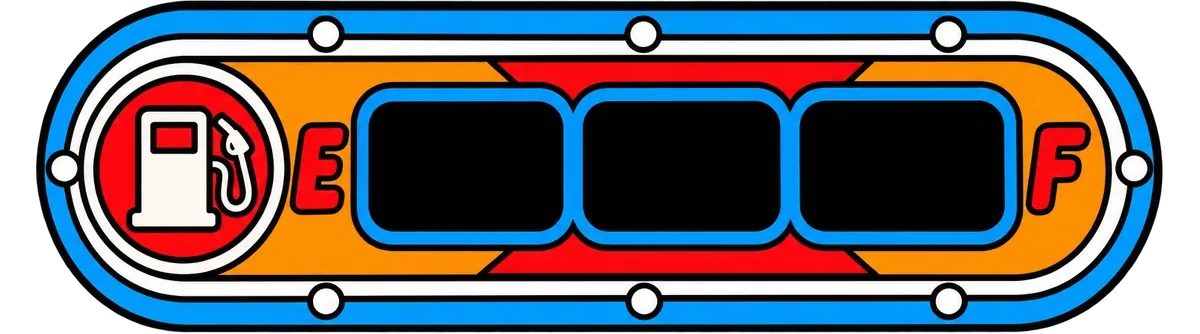
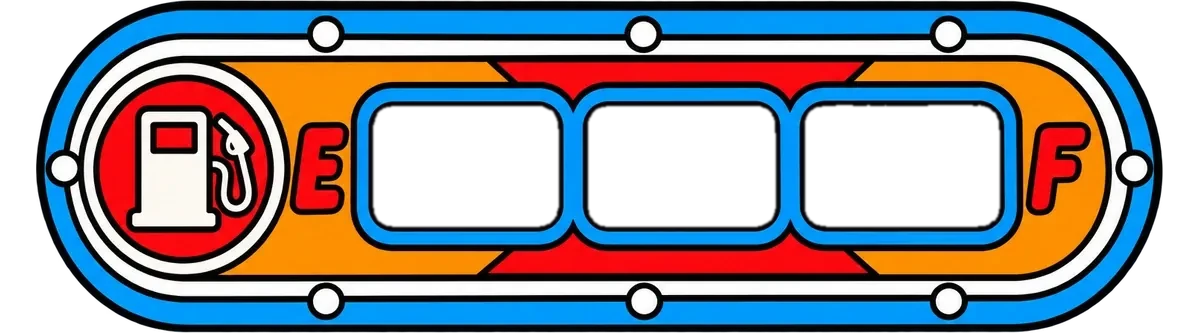
Falcos: fuel gauge shows spins left, slower bonuses, approval fixes
- FILL UP's gauge windows cut open so the fuel shows one lit window per spin left, with a SPINS LEFT count
  (tools/falcos/gauge_windows.py); intro, rules and menu say spins, not bars
- Every bonus plays at 1.7x the time (BONUS_PACE); Rapid and Skip still hurry it
- Approval self-check fixes: an open round's bet is restored on launch [187]; BTC shows 6 decimals and no bare "0."
  or rounded-up balance [219][273]; social mode says GET BONUS and raw errors go through the social wording [77];
  autoplay's confirm shows the real price a round with a special spin on [104]; rules state no re-triggers [29] and
  name every control by its icon, with Spin locked mid-round [235]; the replay panel fits 400x225 [243]

Changed region(s): [[0.3083, 0.2994, 0.8325, 0.6886]]

diff --git a/frontend/index.html b/frontend/index.html
@@ -1060,6 +1060,15 @@
   body.replay .betbox, body.replay #bonusBtn, body.replay #autoBtn, body.replay #spinBtn { display: none; }
   .replaymeta { font-family: var(--legible); font-size: 13px; color: var(--ink); margin: 0 0 10px; line-height: 1.6; }
   .replayres { font-family: var(--mono); font-size: 17px; letter-spacing: .08em; color: var(--gold); margin: 0 0 16px; line-height: 1.7; }
+  /* a popout S window (400x225): the replay panel's text shrinks and its Play / Play again button stays in view at
+     the panel's foot instead of scrolling out of it (approval [243]) */
+  @media (max-height: 300px) {
+    #replayWrap .infopanel { padding: 8px 14px 10px; max-height: calc(100vh - 12px); display: flex; flex-direction: column; }
+    #replayWrap .infopanel h3 { font-size: 15px; margin: 0 0 4px; }
+    #replayWrap .replaymeta, #replayWrap .fine { font-size: 10px !important; line-height: 1.35 !important; margin: 0 0 4px !important; }
+    #replayWrap .replayres { font-size: 12px; line-height: 1.35; margin: 0 0 6px; }
+    #replayWrap #replayPlay { position: sticky; bottom: 0; margin-top: auto; flex: none; padding: 6px 18px; font-size: 13px; }
+  }
   .infopanel h3 {
     margin: 0 0 12px; font-family: var(--disp); font-size: 22px; letter-spacing: .06em;
     text-transform: uppercase; color: var(--spray);
@@ -2213,6 +2222,7 @@
     background: url("assets/bonus_btn_text.webp") center/contain no-repeat;
     filter: drop-shadow(0 3px 5px rgba(0,0,0,.45));
   }
+  html.social .bonusbtn::after { background-image: url("assets/bonus_btn_text_social.webp"); }   /* GET BONUS: no BUY on Stake.US */
   /* The whole button drifts as one piece - the plate, the lettering and the neon glow together
      (owner, 2026-11-03: the lettering used to float on its own off a plate and a glow that stood
      still) - and only a little, slowly. The pointer lifts the whole of it a touch, too. */
@@ -2817,10 +2827,17 @@
   #fsCard.fill .fuelrow { display: flex; align-items: center; justify-content: center; gap: 22px; }
   .fgauge { position: relative; height: 104px; aspect-ratio: 1200 / 334; flex: none; }
   .fgauge > img { position: absolute; inset: 0; width: 100%; height: 100%; z-index: 2; pointer-events: none; }
-  /* its three glass windows (measured on the art: 28.9-46.5%, 48.75-66.4%, 68.75-86.4% across, 28.7-69.8% down) */
-  .fgauge > i { position: absolute; z-index: 1; top: 28.7%; height: 41.1%; width: 17.6%; border-radius: 12% / 18%; overflow: hidden;
-    background: linear-gradient(180deg, #1a0d06, #2a1408); }
-  .fgauge > i:nth-of-type(1) { left: 28.9%; } .fgauge > i:nth-of-type(2) { left: 48.75%; } .fgauge > i:nth-of-type(3) { left: 68.75%; }
+  /* its three glass windows, one per spin left (owner, 2026-11-16: "make these like how many spins you have"): cut
+     open in the flat art (tools/falcos/gauge_windows.py, which measured them: 30.75 / 48.67 / 66.75% across, 30.5-69.2%
+     down) - each box a touch bigger than its opening so its edge sits under the art's ink */
+  .fgauge > i { position: absolute; z-index: 1; top: 29.6%; height: 40.6%; width: 17.6%; border-radius: 14% / 20%; overflow: hidden;
+    background: linear-gradient(180deg, #120a06, #24140a); }
+  .fgauge > i:nth-of-type(1) { left: 30.1%; } .fgauge > i:nth-of-type(2) { left: 48%; } .fgauge > i:nth-of-type(3) { left: 66.2%; }
+  /* the spins-left count over the gauge: the label and its figure, the free spins counter's paint */
+  .fspins { display: flex; flex-direction: column; align-items: center; gap: 2px; flex: none; }
+  .fspins .fslbl b { display: inline-block; min-width: 1.1em; margin-left: .35em; font-size: 1.5em; line-height: 1; color: #FFD23C;
+    -webkit-text-stroke: .09em #0c0c12; paint-order: stroke fill; vertical-align: -.12em; }
+  .fspins .fslbl b.tick { animation: fmultpop .38s cubic-bezier(.2, .9, .3, 1.3); }
   /* the fuel in a window: a block of amber that fills from the bottom (scaleY) with a sloshing surface */
   .fgauge > i::before { content: ""; position: absolute; left: -10%; right: -10%; bottom: 0; height: 100%; transform-origin: 50% 100%; transform: scaleY(0);
     background: linear-gradient(180deg, #FFF0B0 0, #FFC24A 18%, #FF9A1A 60%, #C25A00); border-radius: 30% 30% 0 0 / 8% 8% 0 0;
@@ -2843,13 +2860,15 @@
      whole fit-to-screen (ResizeObserver) on every frame of it (perf, 2026-11-10) - the figure overflows instead */
   .ftotal { display: flex; flex-direction: column; align-items: flex-start; gap: 4px; width: 330px; height: 92px; flex: none; }
   .ftotal .fuelnum { justify-content: flex-start; }
-  .ftotal .fslbl { font-size: 15px; color: #FFB547; text-shadow: 0 0 10px rgba(255, 150, 40, .7); }
+  .ftotal .fslbl, .fspins .fslbl { font-size: 15px; color: #FFB547; text-shadow: 0 0 10px rgba(255, 150, 40, .7); }
+  .fspins .fslbl { font-size: 20px; }
   .fuelnum { min-height: 64px; }
   .fuelnum img { height: 64px; }
   .fuelnum .sym { font-size: 44px; -webkit-text-stroke-width: 5px; }
   @media (max-width: 760px) and (orientation: portrait) {
     .fgauge { height: 180px; }
-    .ftotal .fslbl { font-size: 28px; -webkit-text-stroke-width: 6px; }
+    .ftotal .fslbl, .fspins .fslbl { font-size: 28px; -webkit-text-stroke-width: 6px; }
+    .fspins .fslbl { font-size: 34px; }
     .fuelnum { min-height: 110px; } .fuelnum img { height: 110px; } .fuelnum .sym { font-size: 76px; -webkit-text-stroke-width: 8px; }
     /* an upright phone: the gauge and the total above the board (the room is there, under the canopy) */
     body.fillmode .rail { order: -1; }
@@ -3057,7 +3076,7 @@
   </div>
 
   <div class="rail">
-    <div class="fsline" id="fsCard"><div class="fsplate"><div class="fscount"><span class="fslbl">Free spins</span><b id="fsNow">—</b></div><div class="fswinbox"><span class="fslbl">Bonus win</span><div class="fswin" id="fsWin" aria-label="Bonus win"></div></div></div><div class="fuelrow"><div class="fgauge" id="fuelGauge" aria-label="Fuel"><i></i><i></i><i></i><img src="assets/fillup/gauge.webp" alt="" draggable="false"></div><div class="ftotal"><span class="fslbl">Fuel total</span><div class="fswin fuelnum" id="fuelNum" aria-label="Fuel total"></div></div></div></div>
+    <div class="fsline" id="fsCard"><div class="fsplate"><div class="fscount"><span class="fslbl">Free spins</span><b id="fsNow">—</b></div><div class="fswinbox"><span class="fslbl">Bonus win</span><div class="fswin" id="fsWin" aria-label="Bonus win"></div></div></div><div class="fuelrow"><div class="fspins"><span class="fslbl">Spins left<b id="fuelSpins">3</b></span><div class="fgauge" id="fuelGauge" aria-label="Spins left"><i></i><i></i><i></i><img src="assets/fillup/gauge.webp" alt="" draggable="false"></div></div><div class="ftotal"><span class="fslbl">Fuel total</span><div class="fswin fuelnum" id="fuelNum" aria-label="Fuel total"></div></div></div></div>
   </div>
 </div>
 
@@ -3281,6 +3300,7 @@ const modeOpen = (mode, b = bet()) => { const mx = RGS.modeMaxBet(mode); return 
 // Social casinos (Stake.us) forbid a list of gambling terms. Every player-facing string
 // goes through T(): a no-op normally, the sweeps vocabulary when the lobby says social=true.
 const SOCIAL = RGS.social;
+if (SOCIAL) document.documentElement.classList.add("social");
 const T = s => RULES.T(s, SOCIAL);
 // the symbols' short names reach the board as alt text and the ticker: they follow the rule too
 if (SOCIAL) for (const d of Object.values(SYM)) { d.label = T(d.label); d.sub = T(d.sub); }
@@ -3295,7 +3315,11 @@ const cents = c => Math.round(c / 100 * bet());
 // reels themselves (spinReel lands them the moment it is pressed): a spin that then hits
 // nothing is over at once, a spin that hits plays its hits at pace.
 const TEMPO_FAST = .3;   // was .4: a losing Rapid spin with a drop took 2.5-4.3 s (approval audit 2026-11-09 wants ~2 s)
-const tempo = () => (state.skip || $("turbo").checked) ? TEMPO_FAST : 1;
+// A bonus plays slower than the base game (owner, 2026-11-16: "slow the game down so much the bonus is way to fast"):
+// every hold, wait and CSS animation of FILL UP, PREMIUM and MIDNIGHT RUN runs at BONUS_PACE (Rapid and Skip still
+// hurry it, at their own pace). The symbols' own Blender clips keep their speed, as always (rigPlay).
+const BONUS_PACE = 1.7;
+const tempo = () => (state.skip || $("turbo").checked) ? TEMPO_FAST : state.bonus ? BONUS_PACE : 1;
 // The Multi's whole show - the can spraying its value on, the blow-out and its neighbours' pops,
 // the value landing - plays this many times faster than it was first timed (owner, 2026-10-22:
 // "speed the pop up time for the multiplier up by 1.5x"). The CSS reads it as --multi-rate.
@@ -6022,6 +6046,9 @@ function gaugeShow(fuel, reason) {
     if (!was && on && reason !== "start") { b.style.setProperty("--gd", (i * 90) + "ms"); b.classList.add("fill"); }
   });
   $("fsCard").classList.toggle("low", fuel <= 1);
+  const n = $("fuelSpins");
+  if (n && n.textContent !== String(fuel)) { n.textContent = String(fuel); n.classList.remove("tick"); restyle(n); n.classList.add("tick"); }
+  $("fuelGauge").setAttribute("aria-label", `${fuel} spin${fuel === 1 ? "" : "s"} left`);
 }
 const DROP_COLOUR = { FDG: "#6CFC54", FDA: "#FFB547", FDR: "#FF2A3D", ST: "#F5C518", GT: "#F5C518", GP: "#FFB547", ZP: "#FF6A1F" };
 // a drop lands on the FILL UP board: a ring and droplets in its colour splash out of it, the tile glows once
@@ -6552,6 +6579,7 @@ const handlers = {
     await bonusIntro(state.fsTotal || 10, kind === "midnight", kind, () => {
       // under the intro's black: the bonus's board and scene
       state.bonus = kind;
+      syncTempo();
       state.grid = emptyGrid(); state.max = new Set();
       clearFx(); paintGrid();
       if (kind === "fillup") fillBegin();
@@ -6585,11 +6613,11 @@ const handlers = {
     gaugeShow(ev.fuel, ev.reason);
     if (ev.reason === "use") {
       sfx("gaugeTick");
-      tick(`<b>FILL UP</b> — ${ev.fuel} bar${ev.fuel === 1 ? "" : "s"} left`);
+      tick(`<b>FILL UP</b> — ${ev.fuel} spin${ev.fuel === 1 ? "" : "s"} left`);
       await hold(ev.fuel >= 2 ? 420 : ev.fuel === 1 ? 560 : 360);
     } else if (ev.reason === "refill") {
       sfx("gaugeRefill");
-      tick(`<b>REFILLED</b> — 3 bars`);
+      tick(`<b>REFILLED</b> — 3 spins`);
       const g = $("fuelGauge");
       if (g && !REDUCED_MOTION) { g.classList.remove("refilled"); restyle(g); g.classList.add("refilled"); }
       await hold(state.fuelWasLow ? 900 : 620);   // saved on the last bars: a longer breath
@@ -6807,6 +6835,7 @@ const handlers = {
 function bonusOver() {
   fillEnd();
   state.bonus = null;
+  syncTempo();
   state.grid = emptyGrid(); state.max = new Set();
   paintGrid();
   if (Scene.now !== "normal" && state.mode !== "nitro") Scene.to("normal");
@@ -7138,7 +7167,7 @@ async function presentRound(round, { settle = true } = {}) {
 const BUYS = [
   { mode: "chance", wide: true, art: "chance", logo: "logo_chance", title: "FUEL CHANCE", desc: "Every spin with about 2.2x the chance of triggering a bonus. Stays on until you turn it off", btn: "Activate", acc: "#FFB547" },
   { mode: "nitro", wide: true, art: "nitro", logo: "logo_nitro", title: "NITRO SPIN", desc: "Every cell preloaded from x16 to x2048 on each spin. Stays on until you turn it off", btn: "Activate", acc: "#5B8CFF" },
-  { mode: "fillup", art: "fillup", logo: "logo_fillup", title: "FILL UP", desc: "Collect sticky Fuel Drops while the 3-bar gauge keeps refilling", btn: "Play", acc: "#FF7A1A" },
+  { mode: "fillup", art: "fillup", logo: "logo_fillup", title: "FILL UP", desc: "Collect sticky Fuel Drops - 3 spins, back to 3 whenever something lands", btn: "Play", acc: "#FF7A1A" },
   { mode: "premium", art: "premium", logo: "logo_premium_zombie", title: "PREMIUM", desc: "Zombie night: 10 free spins with sticky multipliers", btn: "Play", acc: "#4F9BFF" },
   { mode: "midnight", art: "midnight", logo: "logo_midnight", title: "MIDNIGHT RUN", desc: "10 free spins with every cell starting at x4, sticky multipliers", btn: "Play", acc: "#8A6BFF" },
 ];
@@ -7317,7 +7346,7 @@ async function playRound(mode) {
     await presentRound(d.round);
   } catch (err) {
     ok = false;
-    notice(`<b>${RGS_MESSAGE[err.code] || err.message || T("Round failed")}</b>`, true, 5000);
+    notice(`<b>${RGS_MESSAGE[err.code] || T(err.message || "Round failed")}</b>`, true, 5000);
     try { await RGS.balance(); setBalance(RGS.state.balance); } catch (e) { /* offline */ }
   }
 
@@ -7339,7 +7368,9 @@ function confirmAuto() {
   return new Promise(resolve => {
     const pop = $("autoPop"), opts = $("autoOpts");
     let n = Number(opts.querySelector(".on").dataset.n);
-    $("autoBet").textContent = fmt(bet());   // what each round will cost
+    // what each round will really cost: with FUEL CHANCE or NITRO SPIN on, that spin's price (approval [104])
+    const m = spinMode();
+    $("autoBet").textContent = fmt(bet() * (MODE_COST[m] || 1)) + (m !== "base" ? " " + T("a round") + " (" + T(MODE_NAMES[m]) + ")" : "");
     $("autoText").firstChild.textContent = T("Rounds at ");
     closeBars();   // the picker opens over the bar: the volume bars go with it
     openPop("autoPop");
@@ -8552,7 +8583,7 @@ introDone.then(() => setTimeout(releaseGonePics, 1500));   // its plates are gon
 const BONUS_KINDS = {
   fillup: { name: "FILL UP", logo: "assets/menu/logo_fillup.webp", x: false, noSpins: true,
     how: [`<b>Fuel Drops</b> stick where they land - green, amber and red, worth up to <b>x500</b> each - and change colour as they grow.`,
-          `The gauge starts full at <b>3</b> bars. Every spin uses one; anything new landing refills it. The bonus ends when the gauge runs dry.`,
+          `You start with <b>3</b> spins - the gauge shows how many are left. Every spin uses one; anything new landing sets it back to 3. The bonus ends when no spins are left.`,
           `Lighters burn drops, Scratch Tickets collect their neighbours, Gold Tickets collect the whole board and double it, Gas Pumps multiply them. At the end you win every drop left and every collector's total.`] },
   premium: { name: "PREMIUM", logo: "assets/menu/logo_premium_zombie.webp", x: false, z: true,
     how: [`Zombie night at the station. Every cell has its own multiplier, doubling each time a win or a feature hits it, up to <b>x2048</b>.`,
@@ -9160,6 +9191,11 @@ async function boot() {
   let at = state.bets.indexOf(recallBet());
   if (at < 0) at = state.bets.indexOf(def);
   if (at < 0 && def) at = state.bets.reduce((best, v, i) => Math.abs(v - def) < Math.abs(state.bets[best] - def) ? i : best, 0);
+  // a round the RGS still holds open sets the bet: its own amount, or the level nearest it (approval [187])
+  const held = RGS.state.round;
+  if (held && held.active !== false && held.amount > 0 && state.bets.length) {
+    at = state.bets.reduce((best, v, i) => Math.abs(v - held.amount) < Math.abs(state.bets[best] - held.amount) ? i : best, 0);
+  }
   state.betIdx = Math.max(0, at);
   if ($("maxWin")) $("maxWin").textContent = "x" + RULES.MAX_WIN;
   setBalance(RGS.state.balance);
@@ -9198,7 +9234,7 @@ async function boot() {
   }
   setButtons(true);
   tick("Good luck.");
-  if (settled && settled.err) notice(`<b>${RGS_MESSAGE[settled.err.code] || settled.err.message}</b>`, true, 6000);
+  if (settled && settled.err) notice(`<b>${RGS_MESSAGE[settled.err.code] || T(settled.err.message || "")}</b>`, true, 6000);
   else if (settled) {
     await introDone;
     notice(settled.paid > 0 ? T(`Your last round was settled: it paid <b>${fmt(settled.paid)}</b>`) : T("Your last round was settled"), false, 5000);

diff --git a/frontend/rules.js b/frontend/rules.js
@@ -169,22 +169,23 @@ const RULES = (() => {
 
 <section>
   <h4>${t("Bonuses")}</h4>
-  <p><b>FILL UP</b> — ${t("3 FALCOS Tokens, or bought. A Fuel Drop collection game with a 3-bar fuel gauge; no cell multipliers. The gauge starts full. Every spin uses one bar, and any spin that lands something new (a drop or a feature) refills it to 3. The bonus ends when the gauge is empty and nothing new lands. At the end you win the total of every drop left plus every collector's total, times the bet, capped at the max win.")}</p>
+  <p><b>FILL UP</b> — ${t("3 FALCOS Tokens, or bought. A Fuel Drop collection game with a fuel gauge that counts your spins left; no cell multipliers. It starts with 3 spins. Every spin uses one, and any spin that lands something new (a drop or a feature) sets it back to 3. The bonus ends when no spins are left. At the end you win the total of every drop left plus every collector's total, times the bet, capped at the max win.")}</p>
   <p><b>PREMIUM</b> — ${t("4 or more FALCOS Tokens, or bought. 10 free spins of the base game with sticky cell multipliers: a cell that reached x8 keeps x8 into the next spin and keeps growing.")}</p>
   <p><b>MIDNIGHT RUN</b> — ${t("3 Midnight Tokens, or bought. 10 free spins with sticky cell multipliers, every cell starting at x4, and Gas Pumps landing far more often. The biggest bonus in the game.")}</p>
+  <p>${t("There are no re-triggers: PREMIUM and MIDNIGHT RUN always play exactly 10 free spins, Tokens landing during a bonus award no extra spins, and no bonus can start inside another.")}</p>
   <p class="fine">${t("Bonuses are played at the bet of the triggering spin. Every round is decided in full the moment it is placed: if the connection drops, reload the game and the round is settled and paid.")}</p>
 </section>
 
 <section>
   <h4>${t("How to play")}</h4>
   <table class="guide">
-    <tr><td><b>${t("Spin")}</b></td><td>${t("Plays one round at the current bet. The spacebar does the same. While the reels are turning the button reads Skip and lands them at once (clicking the board also skips); every winning cluster is always shown in full.")}</td></tr>
-    <tr><td><b>− / +</b></td><td>${t("Lowers or raises the bet through every level offered by the server.")}</td></tr>
-    <tr><td><b>${t("Bonus")}</b></td><td>${t("Opens the Bonus panel: buy a bonus (FILL UP, PREMIUM, MIDNIGHT RUN) or turn on a special spin (FUEL CHANCE, NITRO SPIN). The total charge is shown before you confirm; a special spin stays on - the bar shows its price a spin - until you turn it off on its card or the pill over the bar.")}</td></tr>
-    <tr><td><b>${t("Auto")}</b></td><td>${t("Plays a chosen number of rounds one after another at the current bet. You confirm the number before it starts; press it again to stop. It also stops when the balance can't cover the next round.")}</td></tr>
-    <tr><td><b>${t("Rapid")}</b></td><td>${t("Shortens the reel spin and win animations. Results are unaffected.")}</td></tr>
-    <tr><td><b>${t("Info")}</b></td><td>${t("Opens this page: the rules, the paytable and your recent rounds.")}</td></tr>
-    <tr><td><b>${t("Audio")}</b></td><td>${t("Opens the Sound and Music volume sliders. Slide one all the way left to silence it; with both at zero every sound in the game is off. Levels are remembered on this device.")}</td></tr>
+    <tr><td><b>${t("Spin")}</b></td><td>${t("The round arrow button at the right of the bar. Plays one round at the current bet; the spacebar does the same. While a round plays the button is locked, so a round can never be started twice; click the board to hurry the round along (every winning cluster is still shown in full).")}</td></tr>
+    <tr><td><b>− / +</b></td><td>${t("Lowers or raises the bet through every level offered by the server. The Bonus panel has its own − / + for the same bet.")}</td></tr>
+    <tr><td><b>${t("Bonus")}</b></td><td>${t("Opens the Bonus panel: buy a bonus (FILL UP, PREMIUM, MIDNIGHT RUN) or turn on a special spin (FUEL CHANCE, NITRO SPIN). The total charge is shown before you confirm; a special spin stays on - the bar shows its price a spin - until you turn it off on its card or the pill over the bar. The ✕ closes the panel.")}</td></tr>
+    <tr><td><b>${t("Auto")}</b></td><td>${t("The play arrow button. Plays a chosen number of rounds one after another at the current bet (with FUEL CHANCE or NITRO SPIN on, at that spin's price). You confirm the number and the price a round before it starts; press it again to stop. It also stops when the balance can't cover the next round.")}</td></tr>
+    <tr><td><b>${t("Rapid")}</b></td><td>${t("The lightning bolt button. Shortens the reel spin and win animations. Results are unaffected.")}</td></tr>
+    <tr><td><b>${t("Info")}</b></td><td>${t("The three-line button. Opens this page: the rules, the paytable and your recent rounds.")}</td></tr>
+    <tr><td><b>${t("Audio")}</b></td><td>${t("The speaker button. Opens the Sound and Music volume sliders. Slide one all the way left to silence it; with both at zero every sound in the game is off. Levels are remembered on this device.")}</td></tr>
     <tr><td><b>${t("Win / Balance")}</b></td><td>${t("The bar shows your balance in the token you are playing with, and the current round's win while there is one. The balance is always the amount the server reports.")}</td></tr>
   </table>
 </section>

diff --git a/frontend/rgs.js b/frontend/rgs.js
@@ -28,6 +28,8 @@ const RGS = (() => {
     CLP: { symbol: "CLP", decimals: 0, after: true },
     ARS: { symbol: "ARS", decimals: 2, after: true },
     PEN: { symbol: "S/", decimals: 2, after: true },
+    // crypto (Engine's table): BTC reads 10.000000 BTC; USDT falls through to the 2-decimal "10.00 USDT"
+    BTC: { symbol: "BTC", decimals: 6, after: true },
     // the social-casino coins read "10.00 SC" / "10.00 GC" - never with a $ in front
     XGC: { symbol: "GC", decimals: 2, after: true },
     XSC: { symbol: "SC", decimals: 2, after: true },
@@ -251,10 +253,12 @@ const RGS = (() => {
       const v = a / UNIT;
       const maxDec = Math.min(6, meta.decimals + Math.max(0, extra));
       const unit = Math.pow(10, 6 - meta.decimals);
-      let s = v.toFixed(meta.decimals);
+      // rounded DOWN to the currency's precision, never up (a balance of 0.005 is 0.00, not 0.01)
+      let s = (Math.floor(a / unit) * unit / UNIT).toFixed(meta.decimals);
       if (extra > 0 && unit > 1 && a % unit !== 0) {
         s = v.toFixed(maxDec).replace(/0+$/, "");
-        if (s.split(".")[1] && s.split(".")[1].length < meta.decimals) s = v.toFixed(meta.decimals);
+        const d = s.split(".")[1] || "";
+        if (d.length < meta.decimals) s = v.toFixed(meta.decimals);   // never a bare "0." (2026-11-16 audit [273])
       }
       s = group(s);
       if (social && !CURRENCY_SOCIAL.has(currency || state.currency)) return `${s} ${currency || state.currency}`;   // social mode: never a $ / € sign

diff --git a/tools/falcos/gauge_windows.py b/tools/falcos/gauge_windows.py
@@ -1,0 +1,37 @@
+"""FILL UP's fuel gauge shows its fuel (owner, 2026-11-16: "make these like how many spins you have"): the flat gauge
+art (frontend/assets/fillup/gauge.webp) came with its three glass windows painted solid black, over the fuel bars the
+page draws behind it (.fgauge > i) - so the gauge always read empty. This cuts the windows open: each window's dark
+interior (the three big near-black regions inside the gauge) is made see-through, its ink edge kept (the region
+shrunk by EDGE px, feathered), and prints the windows' boxes in % for the page's .fgauge > i rules.
+
+    .venv/bin/python tools/falcos/gauge_windows.py
+"""
+import os
+import numpy as np
+from PIL import Image, ImageFilter
+from scipy import ndimage
+
+ROOT = os.path.dirname(os.path.dirname(os.path.dirname(os.path.abspath(__file__))))
+P = os.path.join(ROOT, 'frontend', 'assets', 'fillup', 'gauge.webp')
+EDGE = 4
+
+im = Image.open(P).convert('RGBA')
+a = np.asarray(im).copy()
+H, W = a.shape[:2]
+dark = (a[..., :3].max(2) < 40) & (a[..., 3] > 200)
+lab, n = ndimage.label(dark)
+wins = []
+for i, sl in enumerate(ndimage.find_objects(lab)):
+    m = lab == i + 1
+    h, w = sl[0].stop - sl[0].start, sl[1].stop - sl[1].start
+    # a window: big, wider than tall, and in the gauge's middle band (not its outline, not the pump icon at the left)
+    if m.sum() > 15000 and w > h and sl[1].start > W * .25 and sl[0].start > H * .2:
+        wins.append((sl[1].start, sl[0].start, sl[1].stop, sl[0].stop, m))
+hole = np.zeros((H, W), bool)
+for *_, m in wins:
+    hole |= ndimage.binary_erosion(ndimage.binary_fill_holes(m), iterations=EDGE)
+alpha = Image.fromarray((hole * 255).astype(np.uint8)).filter(ImageFilter.GaussianBlur(1))
+a[..., 3] = (a[..., 3].astype(np.float32) * (1 - np.asarray(alpha, np.float32) / 255)).astype(np.uint8)
+Image.fromarray(a).save(P, 'WEBP', quality=90, method=6, alpha_quality=100)
+for x0, y0, x1, y1, _ in sorted(wins, key=lambda w: w[0]):
+    print(f'left {x0 / W * 100:.2f}%  top {y0 / H * 100:.2f}%  width {(x1 - x0) / W * 100:.2f}%  height {(y1 - y0) / H * 100:.2f}%')

diff --git a/tools/falcos/flat_bonus_btn.py b/tools/falcos/flat_bonus_btn.py
@@ -71,10 +71,10 @@ def plate(W=950, H=632):
     return im.resize((W, H), Image.LANCZOS)
 
 
-def lettering(W=1140, H=749):
+def lettering(W=1140, H=749, top='BUY'):
     im = Image.new('RGBA', (W * K, H * K))
     d = ImageDraw.Draw(im)
-    for word, size, cy, fill in (('BUY', 186, .30, YELLOW), ('BONUS', 262, .63, WHITE)):
+    for word, size, cy, fill in ((top, 186, .30, YELLOW), ('BONUS', 262, .63, WHITE)):
         f = font(size)
         sw = 24 * K
         bb = d.textbbox((0, 0), word, font=f, stroke_width=sw)
@@ -88,4 +88,6 @@ def lettering(W=1140, H=749):
 if __name__ == '__main__':
     plate().save(os.path.join(A, 'bonus_btn_bg.webp'), 'WEBP', quality=92, method=6)
     lettering().save(os.path.join(A, 'bonus_btn_text.webp'), 'WEBP', quality=92, method=6)
+    # social mode (Stake.US) may not say BUY: GET BONUS (approval guideline [77])
+    lettering(top='GET').save(os.path.join(A, 'bonus_btn_text_social.webp'), 'WEBP', quality=92, method=6)
     print('BUY BONUS drawn')
